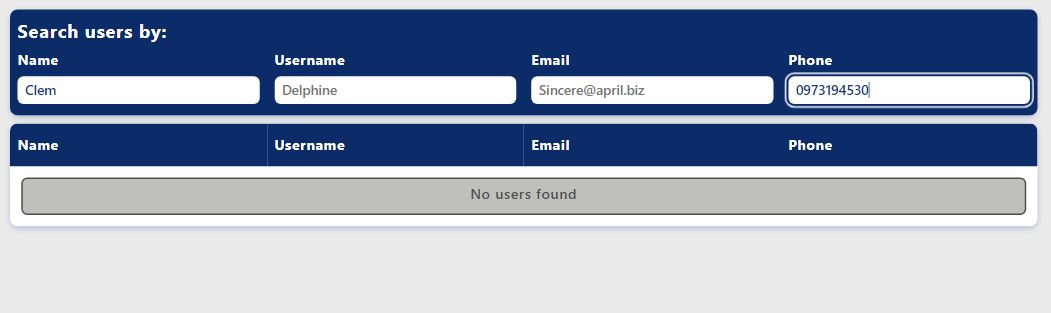
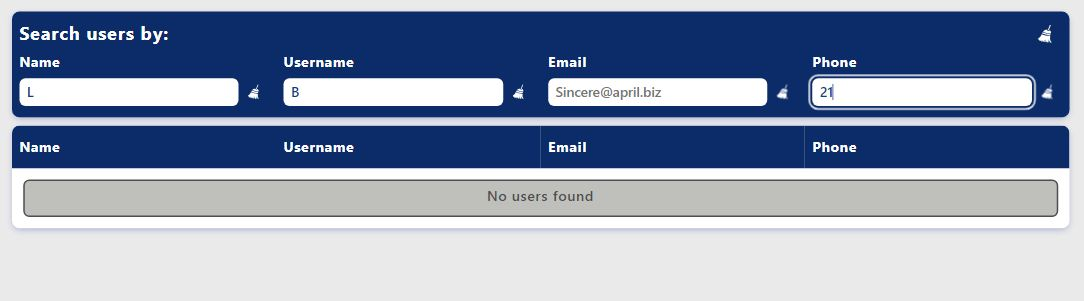
Added filter cleaning + PWA configure

Changed region(s): [[0.0, 0.0, 1.0, 0.7774], [0.9439, 0.0897, 0.9743, 0.1495]]

diff --git a/src/components/Filter/Filter.tsx b/src/components/Filter/Filter.tsx
@@ -5,6 +5,8 @@ import { changeFilter } from '../../redux/filter/filterSlice';
 import { selectFilterValues } from '../../redux/filter/selectors';
 
 import Input from '../Input/Input';
+// import Icon from '../Icon/Icon';
+import Button from '../Button/Button';
 import { IFilterState } from '../../interfaces/filter.interface';
 import { INPUT_CONFIG, FILTER_HEADING } from '../../constants/filterConfig';
 
@@ -20,6 +22,11 @@ const Filter = () => {
     dispatch(changeFilter({ field: name as keyof IFilterState, value }));
   };
 
+  const onClearFilter = (e: React.MouseEvent<HTMLButtonElement>): void => {
+    const { name } = e.currentTarget;
+    dispatch(changeFilter({ field: name as keyof IFilterState | 'all', value: '' }));
+  };
+
   return (
     <div className={css.filterContainer}>
       <h2 className={css.filterHeading}>{FILTER_HEADING}</h2>
@@ -32,10 +39,19 @@ const Filter = () => {
               placeholder={placeholder}
               value={filterValues[name]}
               onChange={onChangeFilter}
+              buttonOnClick={onClearFilter}
             />
           </li>
         ))}
       </ul>
+      <Button
+        name="all"
+        buttonIconSize={26}
+        buttonIconName="clean"
+        ariaLabel="Clean filter"
+        onClick={onClearFilter}
+        className={css.clearFilterButton}
+      />
     </div>
   );
 };

diff --git a/src/components/Input/Input.tsx b/src/components/Input/Input.tsx
@@ -1,8 +1,10 @@
 import { useId } from 'react';
 import { IInputProps } from './interfaces/inputProps.interface';
+
+import Button from '../Button/Button';
 import css from './Input.module.css';
 
-const Input = ({ name, label, value, placeholder, onChange }: IInputProps) => {
+const Input = ({ name, label, value, placeholder, onChange, buttonOnClick }: IInputProps) => {
   const inputId = useId();
 
   return (
@@ -10,15 +12,25 @@ const Input = ({ name, label, value, placeholder, onChange }: IInputProps) => {
       <label htmlFor={inputId} className={css.label}>
         {label}
       </label>
-      <input
-        id={inputId}
-        name={name}
-        placeholder={placeholder}
-        value={value}
-        onChange={onChange}
-        className={css.input}
-        autoComplete="off"
-      />
+      <div className={css.inputFlexBox}>
+        <input
+          id={inputId}
+          name={name}
+          placeholder={placeholder}
+          value={value}
+          onChange={onChange}
+          className={css.input}
+          autoComplete="off"
+        />
+        <Button
+          name={name}
+          buttonIconSize={24}
+          buttonIconName="clean"
+          ariaLabel={`Clean ${name} filter`}
+          onClick={buttonOnClick}
+          className={css.clearFilterButton}
+        />
+      </div>
     </div>
   );
 };

diff --git a/src/components/Button/Button.tsx b/src/components/Button/Button.tsx
@@ -1,0 +1,37 @@
+import React from 'react';
+import Icon from '../Icon/Icon';
+import css from './Button.module.css';
+
+interface IButtonProps {
+  type?: 'button' | 'submit' | 'reset';
+  name?: string;
+  ariaLabel?: string;
+  onClick: (e: React.MouseEvent<HTMLButtonElement>) => void;
+  className?: string;
+  buttonIconName: string;
+  buttonIconSize: number;
+}
+
+const Button = ({
+  type = 'button',
+  name,
+  ariaLabel,
+  onClick,
+  className,
+  buttonIconName,
+  buttonIconSize,
+}: IButtonProps) => {
+  return (
+    <button
+      type={type}
+      name={name}
+      aria-label={ariaLabel}
+      onClick={onClick}
+      className={[css.button, className].join(' ').trim()}
+    >
+      <Icon width={buttonIconSize} height={buttonIconSize} iconName={buttonIconName} />
+    </button>
+  );
+};
+
+export default Button;

diff --git a/src/redux/filter/filterSlice.ts b/src/redux/filter/filterSlice.ts
@@ -1,6 +1,6 @@
 import { createSlice } from '@reduxjs/toolkit';
-import { IFilterState, IChangeFilterPayload } from '../../interfaces/filter.interface';
-import { PayloadAction } from '@reduxjs/toolkit';
+import { IFilterState } from '../../interfaces/filter.interface';
+import { changeFilterReducer } from './reducers';
 
 const initialState: IFilterState = { name: '', username: '', email: '', phone: '' };
 
@@ -8,9 +8,7 @@ export const filterSlice = createSlice({
   name: 'filter',
   initialState,
   reducers: {
-    changeFilter: (state, { payload: { field, value } }: PayloadAction<IChangeFilterPayload>) => {
-      state[field] = value;
-    },
+    changeFilter: changeFilterReducer,
   },
 });
 

diff --git a/src/redux/filter/reducers.ts b/src/redux/filter/reducers.ts
@@ -1,4 +1,17 @@
-import { RootState } from '../store';
 import { PayloadAction } from '@reduxjs/toolkit';
+import { IChangeFilterPayload, IFilterState } from '../../interfaces/filter.interface';
 
-export const changeFilter = (state: RootState, action: PayloadAction) => {};
+const changeFilterReducer = (
+  state: IFilterState,
+  { payload: { field, value } }: PayloadAction<IChangeFilterPayload>
+) => {
+  if (field === 'all') {
+    Object.keys(state).forEach(key => {
+      state[key as keyof IFilterState] = value;
+    });
+  } else {
+    state[field] = value;
+  }
+};
+
+export { changeFilterReducer };

diff --git a/src/constants/filterConfig.ts b/src/constants/filterConfig.ts
@@ -3,6 +3,6 @@ export const FILTER_HEADING = 'Search users by:';
 export const INPUT_CONFIG = [
   { name: 'name', placeholder: 'Kurtis Weissnat', label: 'name' },
   { name: 'username', placeholder: 'Delphine', label: 'username' },
-  { name: 'email', placeholder: 'Sincere@april.biz', label: 'email' },
+  { name: 'email', placeholder: 'Sincere@april.biz', label: 'email', type: 'email' },
   { name: 'phone', placeholder: '024-648-3804', label: 'phone' },
 ] as const;

diff --git a/src/components/Icon/Icon.tsx b/src/components/Icon/Icon.tsx
@@ -1,0 +1,18 @@
+import css from './Icon.module.css';
+
+interface IconProps {
+  width: number;
+  height: number;
+  iconName: string;
+  className?: string;
+}
+
+const Icon = ({ width, height, iconName, className = '' }: IconProps) => {
+  return (
+    <svg width={width} height={height} className={[css.icon, className].join(' ').trim()}>
+      <use xlinkHref={`/icons/icons.svg#icon-${iconName}`} />
+    </svg>
+  );
+};
+
+export default Icon;

diff --git a/src/components/Button/Button.module.css b/src/components/Button/Button.module.css
@@ -1,0 +1,21 @@
+.button {
+  display: flex;
+  justify-content: center;
+  align-items: center;
+  padding: 5px;
+
+  color: var(--primary-text-color);
+
+  border: 2px solid transparent;
+  border-radius: var(--border-radius);
+
+  transition: transform var(--transition-duration) var(--timing-function);
+
+  &:hover {
+    transform: scale(1.2);
+  }
+
+  &:focus {
+    outline-color: var(--primary-text-color);
+  }
+}

diff --git a/src/components/Filter/Filter.module.css b/src/components/Filter/Filter.module.css
@@ -1,4 +1,6 @@
 .filterContainer {
+  position: relative;
+
   width: 100%;
   padding: 15px 10px;
   margin-bottom: 11px;
@@ -13,6 +15,16 @@
 .filterHeading {
   margin-bottom: 14px;
   color: var(--primary-text-color);
+}
+
+.clearFilterButton {
+  position: absolute;
+  top: 10px;
+  right: 10px;
+
+  & > svg {
+    transform: scaleX(-1);
+  }
 }
 
 .filterInputList {

diff --git a/src/index.css b/src/index.css
@@ -27,6 +27,12 @@ p {
   padding: 0;
 }
 
+button {
+  background-color: transparent;
+  border: none;
+  cursor: pointer;
+}
+
 .visually-hidden {
   position: absolute;
   white-space: nowrap;
@@ -48,5 +54,5 @@ p {
   margin: 0 auto;
   padding-left: 15px;
   padding-right: 15px;
-  max-width: 1400px;
+  max-width: 1440px;
 }

diff --git a/src/components/Input/interfaces/inputProps.interface.ts b/src/components/Input/interfaces/inputProps.interface.ts
@@ -3,5 +3,7 @@ export interface IInputProps {
   name: string;
   value: string;
   placeholder: string;
+  type?: string;
+  buttonOnClick: (e: React.MouseEvent<HTMLButtonElement>) => void;
   onChange: (e: React.ChangeEvent<HTMLInputElement>) => void;
 }

diff --git a/src/components/Input/Input.module.css b/src/components/Input/Input.module.css
@@ -27,3 +27,15 @@
     outline-offset: 3px;
   }
 }
+
+.inputFlexBox {
+  width: 100%;
+  display: flex;
+  gap: 5px;
+}
+
+.clearFilterButton {
+  & > svg {
+    transform: scaleX(-1);
+  }
+}
